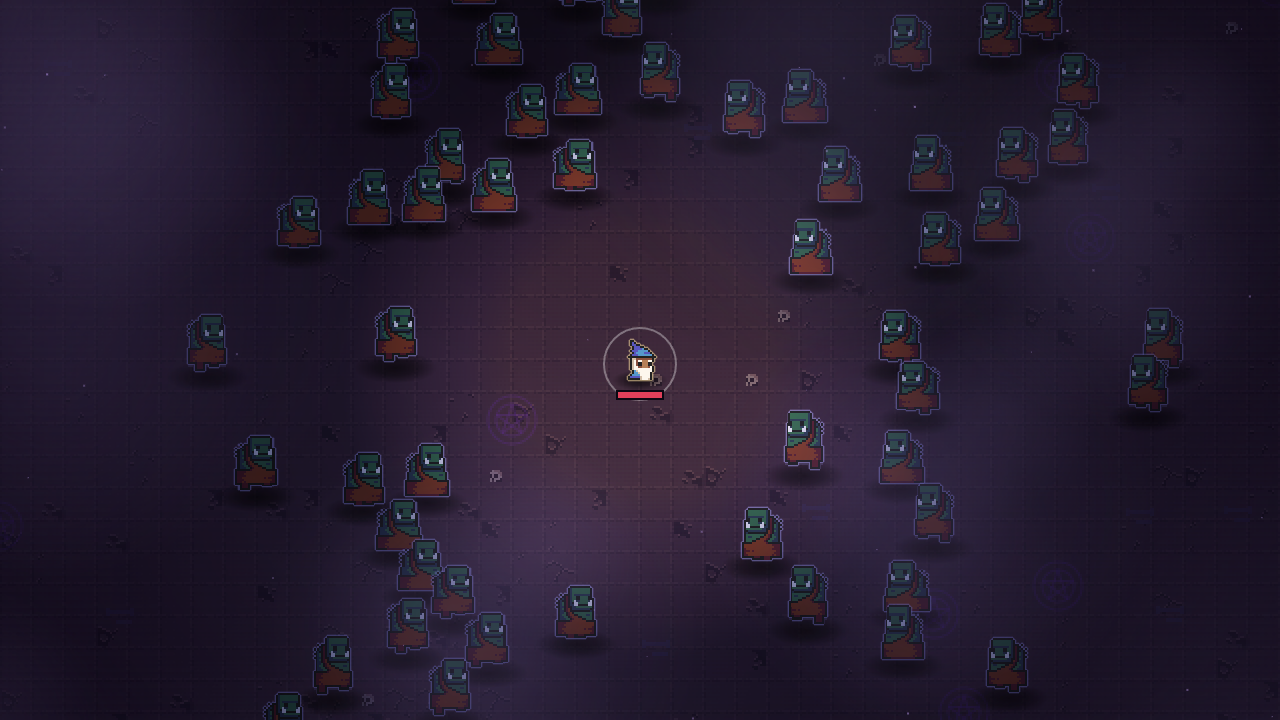
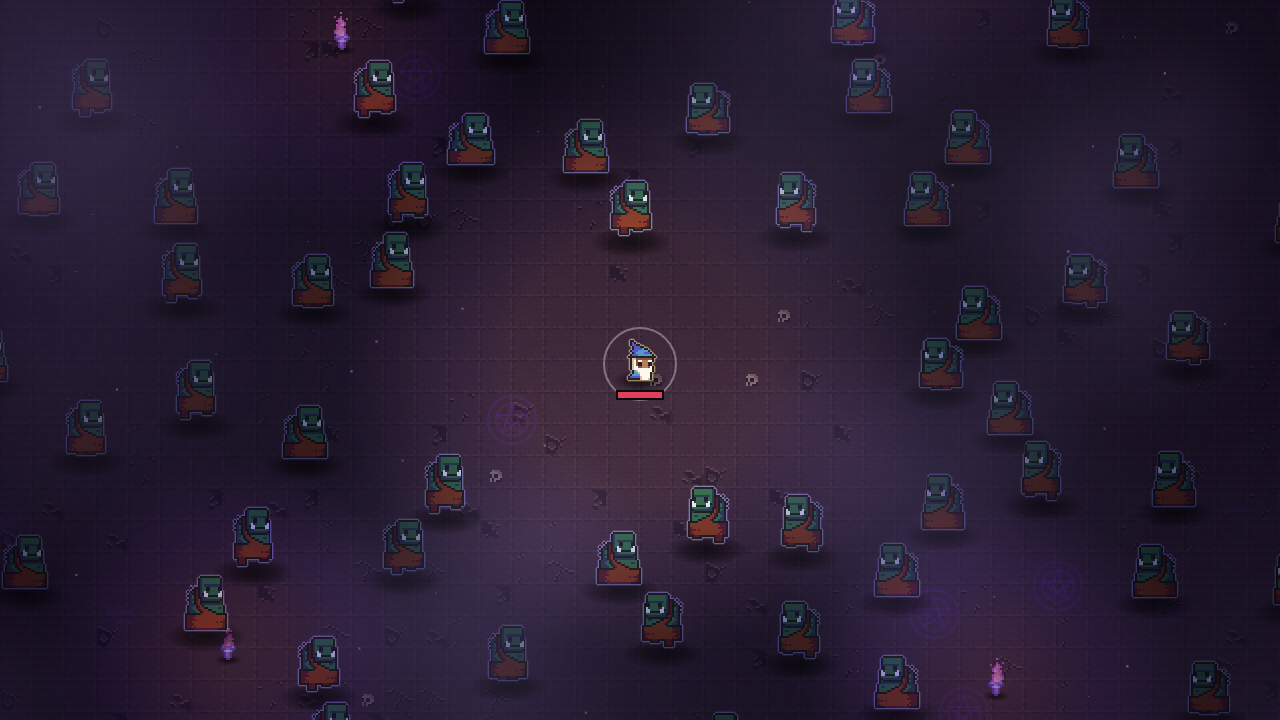
V8 G3: fixed per-wave world light sources (0x72 + Niji CC0 assets)

diff --git a/js/atlas.js b/js/atlas.js
@@ -1,4 +1,5 @@
 'use strict';
 // TỰ SINH bởi tools/build_atlas.py — không sửa tay.
 // Nguồn: 0x72 DungeonTileset II v1.7 (CC0), https://0x72.itch.io/dungeontileset-ii
-const ATLAS = {"src":"assets/atlas.png","size":[256,512],"frames":{"wizzard_m_idle_anim_f0":[1,1,18,30],"wizzard_m_idle_anim_f1":[21,1,18,30],"wizzard_m_idle_anim_f2":[41,1,18,30],"wizzard_m_idle_anim_f3":[61,1,18,30],"wizzard_m_run_anim_f0":[81,1,18,30],"wizzard_m_run_anim_f1":[101,1,18,30],"wizzard_m_run_anim_f2":[121,1,18,30],"wizzard_m_run_anim_f3":[141,1,18,30],"wizzard_m_hit_anim_f0":[161,1,18,30],"imp_idle_anim_f0":[181,1,18,18],"imp_idle_anim_f1":[201,1,18,18],"imp_idle_anim_f2":[221,1,18,18],"imp_idle_anim_f3":[1,33,18,18],"imp_run_anim_f0":[21,33,18,18],"imp_run_anim_f1":[41,33,18,18],"imp_run_anim_f2":[61,33,18,18],"imp_run_anim_f3":[81,33,18,18],"swampy_anim_f0":[101,33,18,18],"swampy_anim_f1":[121,33,18,18],"swampy_anim_f2":[141,33,18,18],"swampy_anim_f3":[161,33,18,18],"skelet_idle_anim_f0":[181,33,18,18],"skelet_idle_anim_f1":[201,33,18,18],"skelet_idle_anim_f2":[221,33,18,18],"skelet_idle_anim_f3":[1,53,18,18],"skelet_run_anim_f0":[21,53,18,18],"skelet_run_anim_f1":[41,53,18,18],"skelet_run_anim_f2":[61,53,18,18],"skelet_run_anim_f3":[81,53,18,18],"necromancer_anim_f0":[101,53,18,25],"necromancer_anim_f1":[121,53,18,25],"necromancer_anim_f2":[141,53,18,25],"necromancer_anim_f3":[161,53,18,25],"ogre_idle_anim_f0":[181,53,34,38],"ogre_idle_anim_f1":[217,53,34,38],"ogre_idle_anim_f2":[1,93,34,38],"ogre_idle_anim_f3":[37,93,34,38],"ogre_run_anim_f0":[73,93,34,38],"ogre_run_anim_f1":[109,93,34,38],"ogre_run_anim_f2":[145,93,34,38],"ogre_run_anim_f3":[181,93,34,38],"big_demon_idle_anim_f0":[217,93,34,38],"big_demon_idle_anim_f1":[1,133,34,38],"big_demon_idle_anim_f2":[37,133,34,38],"big_demon_idle_anim_f3":[73,133,34,38],"big_demon_run_anim_f0":[109,133,34,38],"big_demon_run_anim_f1":[145,133,34,38],"big_demon_run_anim_f2":[181,133,34,38],"big_demon_run_anim_f3":[217,133,34,38],"weapon_knife":[1,173,8,15],"weapon_red_gem_sword":[11,173,12,23],"chest_full_open_anim_f0":[25,173,18,18],"chest_full_open_anim_f1":[45,173,18,18],"chest_full_open_anim_f2":[65,173,18,18],"ui_heart_full":[85,173,15,14],"floor_1":[103,174,16,16],"floor_2":[123,174,16,16],"floor_3":[143,174,16,16],"floor_4":[163,174,16,16],"floor_5":[183,174,16,16],"floor_6":[203,174,16,16],"floor_7":[223,174,16,16],"floor_8":[2,199,16,16],"skull":[22,199,16,16],"big_zombie_idle_anim_f0":[41,198,34,38],"big_zombie_idle_anim_f1":[77,198,34,38],"big_zombie_idle_anim_f2":[113,198,34,38],"big_zombie_idle_anim_f3":[149,198,34,38],"big_zombie_run_anim_f0":[185,198,34,38],"big_zombie_run_anim_f1":[221,198,34,38],"big_zombie_run_anim_f2":[1,238,34,38],"big_zombie_run_anim_f3":[37,238,34,38],"crate":[73,238,18,26],"bomb_f0":[93,238,18,18],"bomb_f1":[113,238,18,18],"bomb_f2":[133,238,18,18],"flask_big_red":[153,238,18,18],"flask_big_blue":[173,238,18,18],"flask_big_green":[193,238,18,18],"flask_big_yellow":[213,238,18,18],"weapon_arrow":[234,239,7,21],"weapon_red_magic_staff":[245,239,8,30],"weapon_big_hammer":[2,279,10,37],"weapon_golden_sword":[16,279,10,22],"flask_green":[30,279,16,16],"flask_blue":[50,279,16,16],"flask_yellow":[70,279,16,16],"chort_idle_anim_f0":[89,278,18,25],"chort_idle_anim_f1":[109,278,18,25],"chort_idle_anim_f2":[129,278,18,25],"chort_idle_anim_f3":[149,278,18,25],"chort_run_anim_f0":[169,278,18,25],"chort_run_anim_f1":[189,278,18,25],"chort_run_anim_f2":[209,278,18,25],"chort_run_anim_f3":[229,278,18,25],"muddy_anim_f0":[1,319,18,18],"muddy_anim_f1":[21,319,18,18],"muddy_anim_f2":[41,319,18,18],"muddy_anim_f3":[61,319,18,18],"masked_orc_idle_anim_f0":[81,319,18,25],"masked_orc_idle_anim_f1":[101,319,18,25],"masked_orc_idle_anim_f2":[121,319,18,25],"masked_orc_idle_anim_f3":[141,319,18,25],"masked_orc_run_anim_f0":[161,319,18,25],"masked_orc_run_anim_f1":[181,319,18,25],"masked_orc_run_anim_f2":[201,319,18,25],"masked_orc_run_anim_f3":[221,319,18,25],"knight_m_idle_anim_f0":[1,346,18,30],"knight_m_idle_anim_f1":[21,346,18,30],"knight_m_idle_anim_f2":[41,346,18,30],"knight_m_idle_anim_f3":[61,346,18,30],"knight_m_run_anim_f0":[81,346,18,30],"knight_m_run_anim_f1":[101,346,18,30],"knight_m_run_anim_f2":[121,346,18,30],"knight_m_run_anim_f3":[141,346,18,30],"knight_m_hit_anim_f0":[161,346,18,30],"elf_f_idle_anim_f0":[181,346,18,30],"elf_f_idle_anim_f1":[201,346,18,30],"elf_f_idle_anim_f2":[221,346,18,30],"elf_f_idle_anim_f3":[1,378,18,30],"elf_f_run_anim_f0":[21,378,18,30],"elf_f_run_anim_f1":[41,378,18,30],"elf_f_run_anim_f2":[61,378,18,30],"elf_f_run_anim_f3":[81,378,18,30],"elf_f_hit_anim_f0":[101,378,18,30],"lizard_m_idle_anim_f0":[121,378,18,30],"lizard_m_idle_anim_f1":[141,378,18,30],"lizard_m_idle_anim_f2":[161,378,18,30],"lizard_m_idle_anim_f3":[181,378,18,30],"lizard_m_run_anim_f0":[201,378,18,30],"lizard_m_run_anim_f1":[221,378,18,30],"lizard_m_run_anim_f2":[1,410,18,30],"lizard_m_run_anim_f3":[21,410,18,30],"lizard_m_hit_anim_f0":[41,410,18,30]}};
+// + Niji DungeonTileset II Extended v1.1 (CC0), https://nijikokun.itch.io/dungeontileset-ii-extended
+const ATLAS = {"src":"assets/atlas.png","size":[256,512],"frames":{"wizzard_m_idle_anim_f0":[1,1,18,30],"wizzard_m_idle_anim_f1":[21,1,18,30],"wizzard_m_idle_anim_f2":[41,1,18,30],"wizzard_m_idle_anim_f3":[61,1,18,30],"wizzard_m_run_anim_f0":[81,1,18,30],"wizzard_m_run_anim_f1":[101,1,18,30],"wizzard_m_run_anim_f2":[121,1,18,30],"wizzard_m_run_anim_f3":[141,1,18,30],"wizzard_m_hit_anim_f0":[161,1,18,30],"imp_idle_anim_f0":[181,1,18,18],"imp_idle_anim_f1":[201,1,18,18],"imp_idle_anim_f2":[221,1,18,18],"imp_idle_anim_f3":[1,33,18,18],"imp_run_anim_f0":[21,33,18,18],"imp_run_anim_f1":[41,33,18,18],"imp_run_anim_f2":[61,33,18,18],"imp_run_anim_f3":[81,33,18,18],"swampy_anim_f0":[101,33,18,18],"swampy_anim_f1":[121,33,18,18],"swampy_anim_f2":[141,33,18,18],"swampy_anim_f3":[161,33,18,18],"skelet_idle_anim_f0":[181,33,18,18],"skelet_idle_anim_f1":[201,33,18,18],"skelet_idle_anim_f2":[221,33,18,18],"skelet_idle_anim_f3":[1,53,18,18],"skelet_run_anim_f0":[21,53,18,18],"skelet_run_anim_f1":[41,53,18,18],"skelet_run_anim_f2":[61,53,18,18],"skelet_run_anim_f3":[81,53,18,18],"necromancer_anim_f0":[101,53,18,25],"necromancer_anim_f1":[121,53,18,25],"necromancer_anim_f2":[141,53,18,25],"necromancer_anim_f3":[161,53,18,25],"ogre_idle_anim_f0":[181,53,34,38],"ogre_idle_anim_f1":[217,53,34,38],"ogre_idle_anim_f2":[1,93,34,38],"ogre_idle_anim_f3":[37,93,34,38],"ogre_run_anim_f0":[73,93,34,38],"ogre_run_anim_f1":[109,93,34,38],"ogre_run_anim_f2":[145,93,34,38],"ogre_run_anim_f3":[181,93,34,38],"big_demon_idle_anim_f0":[217,93,34,38],"big_demon_idle_anim_f1":[1,133,34,38],"big_demon_idle_anim_f2":[37,133,34,38],"big_demon_idle_anim_f3":[73,133,34,38],"big_demon_run_anim_f0":[109,133,34,38],"big_demon_run_anim_f1":[145,133,34,38],"big_demon_run_anim_f2":[181,133,34,38],"big_demon_run_anim_f3":[217,133,34,38],"weapon_knife":[1,173,8,15],"weapon_red_gem_sword":[11,173,12,23],"chest_full_open_anim_f0":[25,173,18,18],"chest_full_open_anim_f1":[45,173,18,18],"chest_full_open_anim_f2":[65,173,18,18],"ui_heart_full":[85,173,15,14],"floor_1":[103,174,16,16],"floor_2":[123,174,16,16],"floor_3":[143,174,16,16],"floor_4":[163,174,16,16],"floor_5":[183,174,16,16],"floor_6":[203,174,16,16],"floor_7":[223,174,16,16],"floor_8":[2,199,16,16],"skull":[22,199,16,16],"big_zombie_idle_anim_f0":[41,198,34,38],"big_zombie_idle_anim_f1":[77,198,34,38],"big_zombie_idle_anim_f2":[113,198,34,38],"big_zombie_idle_anim_f3":[149,198,34,38],"big_zombie_run_anim_f0":[185,198,34,38],"big_zombie_run_anim_f1":[221,198,34,38],"big_zombie_run_anim_f2":[1,238,34,38],"big_zombie_run_anim_f3":[37,238,34,38],"crate":[73,238,18,26],"bomb_f0":[93,238,18,18],"bomb_f1":[113,238,18,18],"bomb_f2":[133,238,18,18],"flask_big_red":[153,238,18,18],"flask_big_blue":[173,238,18,18],"flask_big_green":[193,238,18,18],"flask_big_yellow":[213,238,18,18],"weapon_arrow":[234,239,7,21],"weapon_red_magic_staff":[245,239,8,30],"weapon_big_hammer":[2,279,10,37],"weapon_golden_sword":[16,279,10,22],"flask_green":[30,279,16,16],"flask_blue":[50,279,16,16],"flask_yellow":[70,279,16,16],"chort_idle_anim_f0":[89,278,18,25],"chort_idle_anim_f1":[109,278,18,25],"chort_idle_anim_f2":[129,278,18,25],"chort_idle_anim_f3":[149,278,18,25],"chort_run_anim_f0":[169,278,18,25],"chort_run_anim_f1":[189,278,18,25],"chort_run_anim_f2":[209,278,18,25],"chort_run_anim_f3":[229,278,18,25],"muddy_anim_f0":[1,319,18,18],"muddy_anim_f1":[21,319,18,18],"muddy_anim_f2":[41,319,18,18],"muddy_anim_f3":[61,319,18,18],"masked_orc_idle_anim_f0":[81,319,18,25],"masked_orc_idle_anim_f1":[101,319,18,25],"masked_orc_idle_anim_f2":[121,319,18,25],"masked_orc_idle_anim_f3":[141,319,18,25],"masked_orc_run_anim_f0":[161,319,18,25],"masked_orc_run_anim_f1":[181,319,18,25],"masked_orc_run_anim_f2":[201,319,18,25],"masked_orc_run_anim_f3":[221,319,18,25],"knight_m_idle_anim_f0":[1,346,18,30],"knight_m_idle_anim_f1":[21,346,18,30],"knight_m_idle_anim_f2":[41,346,18,30],"knight_m_idle_anim_f3":[61,346,18,30],"knight_m_run_anim_f0":[81,346,18,30],"knight_m_run_anim_f1":[101,346,18,30],"knight_m_run_anim_f2":[121,346,18,30],"knight_m_run_anim_f3":[141,346,18,30],"knight_m_hit_anim_f0":[161,346,18,30],"elf_f_idle_anim_f0":[181,346,18,30],"elf_f_idle_anim_f1":[201,346,18,30],"elf_f_idle_anim_f2":[221,346,18,30],"elf_f_idle_anim_f3":[1,378,18,30],"elf_f_run_anim_f0":[21,378,18,30],"elf_f_run_anim_f1":[41,378,18,30],"elf_f_run_anim_f2":[61,378,18,30],"elf_f_run_anim_f3":[81,378,18,30],"elf_f_hit_anim_f0":[101,378,18,30],"lizard_m_idle_anim_f0":[121,378,18,30],"lizard_m_idle_anim_f1":[141,378,18,30],"lizard_m_idle_anim_f2":[161,378,18,30],"lizard_m_idle_anim_f3":[181,378,18,30],"lizard_m_run_anim_f0":[201,378,18,30],"lizard_m_run_anim_f1":[221,378,18,30],"lizard_m_run_anim_f2":[1,410,18,30],"lizard_m_run_anim_f3":[21,410,18,30],"lizard_m_hit_anim_f0":[41,410,18,30],"niji_flame_f0":[62,411,16,13],"niji_flame_f1":[82,411,16,13],"niji_flame_f2":[102,411,16,13],"niji_flame_f3":[122,411,16,13],"niji_flame_f4":[142,411,16,13],"niji_flame_f5":[162,411,16,13],"niji_flame_f6":[182,411,16,13],"niji_flame_f7":[202,411,16,13],"niji_torch_f0":[222,411,16,19],"niji_torch_f1":[2,443,16,19],"niji_torch_f2":[22,443,16,19],"niji_torch_f3":[42,443,16,19],"niji_torch_f4":[62,443,16,19],"niji_torch_f5":[82,443,16,19],"niji_torch_f6":[102,443,16,19],"niji_torch_f7":[122,443,16,19],"niji_candle_f0":[142,443,16,21],"niji_candle_f1":[162,443,16,21],"niji_candle_f2":[182,443,16,21],"niji_candle_f3":[202,443,16,21],"niji_candle_f4":[222,443,16,21],"niji_candle_f5":[2,468,16,21],"niji_candle_f6":[22,468,16,21],"niji_candle_f7":[42,468,16,21]}};

diff --git a/js/render.js b/js/render.js
@@ -337,7 +337,16 @@ const SHAPES = {
   bomber:     scaledShape('bat', 1.3),
   splitter:   scaledShape('slime', 1.6),
   charger:    scaledShape('skeleton', 1.4),
+  // đèn thế giới (V8 G3) khi thiếu ảnh: (x, y) là chân, ngọn lửa đổi khung theo e.anim
+  propCandle(c, e) { c.fillStyle = '#3b3648'; c.fillRect(e.x - 5, e.y - 12, 10, 12); c.fillStyle = '#e8dcc0'; c.fillRect(e.x - 2, e.y - 16, 4, 4); propFire(c, e.x, e.y - 16, e.anim); },
+  propTorch(c, e) { c.fillStyle = '#4a4458'; c.fillRect(e.x - 1, e.y - 12, 2, 12); c.fillRect(e.x - 4, e.y - 14, 8, 3); propFire(c, e.x, e.y - 14, e.anim, '#b583ff', '#ecdcff'); },
+  propFlame(c, e) { propFire(c, e.x, e.y, e.anim); },
 };
+function propFire(c, x, y, t, out = '#ffa040', core = '#fff0a0') {
+  const f = Math.floor(t * 10) % 3;
+  c.fillStyle = out; c.fillRect(x - 2, y - 5 - f, 4, 5 + f);
+  c.fillStyle = core; c.fillRect(x - 1, y - 3, 2, 3);
+}
 function flaskShape(c, g, color) {
   const y = g.y + Math.sin(g.anim * 4) * 1.5;
   c.fillStyle = '#d8d8e8'; c.fillRect(g.x - 2, y - 8, 4, 4);
@@ -624,6 +633,44 @@ function drawWeather(camX, camY, t, wi) {
   ctx.globalAlpha = 1;
 }
 
+/* Đèn thế giới (V8 G3): mỗi ô lưới CFG.props.cell có 1 nguồn sáng ở giữa ô ± jit, vị trí theo hash(ô) — cố định, không Math.random.
+   Hình: sprite WAVE_DEFS[i].props.kind (thiếu ảnh → SHAPES) trên đế vẽ code PROP_BASE; đèn thêm trong drawLights. */
+const PROP_BASE = {
+  vent(c, x, y) { c.fillStyle = '#0a0604'; ellipse(c, x, y, 9, 3.5); c.fillStyle = 'rgba(255,170,60,0.45)'; ellipse(c, x, y - 0.5, 6, 2); },   // khe đất
+  pyre(c, x, y) {   // đống than: 2 khúc củi + than hồng
+    c.fillStyle = '#2a1a12'; c.fillRect(x - 10, y - 3, 20, 3); c.fillRect(x - 7, y - 5, 14, 2);
+    c.fillStyle = '#ff9a3a'; c.fillRect(x - 6, y - 2, 2, 1); c.fillRect(x + 3, y - 3, 2, 1); c.fillRect(x - 1, y - 1, 2, 1);
+  },
+};
+const propList = [], propTmp = { x: 0, y: 0, r: 6, anim: 0, face: 1, sc: 1 };
+// Các nguồn sáng có chân trong vùng nhìn + lề m: mảng {x, y, h} (h = hash của ô, dùng cho pha lập loè/hoạt ảnh)
+function propsOnCam(camX, camY, out, m) {
+  const C = CFG.props, S = C.cell, J = 2 * C.jit + 1; out.length = 0;
+  for (let cx = Math.floor((camX - m) / S), cx1 = Math.floor((camX + VW + m) / S); cx <= cx1; cx++)
+    for (let cy = Math.floor((camY - m) / S), cy1 = Math.floor((camY + VH + m) / S); cy <= cy1; cy++) {
+      const h = hash(cx + 7919, cy + 104729), x = cx * S + S / 2 + h % J - C.jit, y = cy * S + S / 2 + (h >>> 12) % J - C.jit;
+      if (x > camX - m && x < camX + VW + m && y > camY - m && y < camY + VH + m) out.push({ x, y, h });
+    }
+  return out;
+}
+// Độ sáng một đèn: 1 − flick·(1 − trung bình 2 sóng sin lệch pha theo h); giảm loé → đứng yên ở 1 − flick
+function propA(h, t) {
+  const C = CFG.props; if (calm()) return 1 - C.flick;
+  const w = t * C.flickHz, ph = h % 628 / 100;
+  return 1 - C.flick * (1 - (Math.sin(w + ph) + Math.sin(w * 1.7 + ph * 3)) / 2);
+}
+function drawProps(camX, camY, wi, t) {
+  const pd = WAVE_DEFS[wi].props; if (!pd) return;
+  const o = propTmp, spr = Assets.get(pd.kind);
+  o.sc = pd.sc || 1;
+  for (const q of propsOnCam(camX, camY, propList, 32)) {   // lề 32: sprite cao tới ~30 đơn vị phía trên chân
+    o.x = q.x; o.y = q.y - o.r * 0.85;   // drawShadow đặt bóng ở y + r·0.85 = chân
+    if (pd.base) PROP_BASE[pd.base](ctx, q.x, q.y); else if (spr) drawShadow(o);
+    o.y = q.y; o.anim = t + (q.h >>> 8) % 97 / 31; o.face = q.h & 1 ? 1 : -1;
+    draw(ctx, o, pd.kind);
+  }
+}
+
 /* Lớp phát sáng: quầng sáng vẽ sẵn (64×64), cộng sáng một lượt dưới mọi vật. Có giới hạn số quầng mỗi khung. */
 const GLOW_COLORS = { pink: '255,77,196', purple: '200,107,255', cyan: '127,212,255', gold: '255,209,102', green: '92,255,157', red: '255,59,92' };
 const GLOWS = {};
@@ -674,7 +721,7 @@ function drawLights(camX, camY) {
   }
   lightList.length = 0; eliteTmp.length = 0;
   const onCam = (x, y, r) => x + r > camX && x - r < camX + VW && y + r > camY && y - r < camY + VH;
-  // Gom đèn theo thứ tự ưu tiên (người chơi → boss → vùng nổ → tinh anh → đạn; bỏ đèn ngọc để giữ ngân sách khung hình)
+  // Gom đèn theo thứ tự ưu tiên (người chơi → boss → vùng nổ → đèn thế giới → tinh anh → đạn; bỏ đèn ngọc để giữ ngân sách khung hình)
   if (p) addLight(p.x, p.y, L.player, L.playerCol);
   for (let i = 0, it = G.enemies.items; i < it.length; i++) {
     const e = it[i]; if (e.dead) continue;
@@ -687,6 +734,8 @@ function drawLights(camX, camY) {
     const z = G.zones[i], zr = z.r * L.zone;
     if (onCam(z.x, z.y, zr)) addLight(z.x, z.y, zr, L.zoneCol, clamp(0.5 + 0.5 * (1 - z.t / (z.max || 1)), 0, 1));
   }
+  const pd = WAVE_DEFS[waveIdx()].props;   // đèn thế giới (V8 G3): sau vùng nổ, trước tinh anh
+  if (pd) { const r = CFG.props.r * pd.k; for (const q of propsOnCam(camX, camY, propList, r)) addLight(q.x, q.y - 6, r, pd.col, propA(q.h, G.t)); }
   for (let i = 0; i < eliteTmp.length; i++) {
     const e = eliteTmp[i];
     if (onCam(e.x, e.y, L.elite)) addLight(e.x, e.y, L.elite, L.eliteCol);
@@ -1238,6 +1287,13 @@ function renderAttract(dt) {
   const camX = snapPx(cx - VW / 2), camY = snapPx(cy - VH / 2);
   ctx.setTransform(ZOOM, 0, 0, ZOOM, -camX * ZOOM, -camY * ZOOM);
   tileGround(groundFor(0), camX, camY);
+  const pd = WAVE_DEFS[0].props, PC = CFG.props;
+  if (pd && lightOn()) {   // menu không có lightmap: đèn thế giới là quầng cộng sáng nhẹ
+    const r = PC.r * pd.k; ctx.globalCompositeOperation = 'lighter';
+    for (const q of propsOnCam(camX, camY, propList, r)) { ctx.globalAlpha = PC.menuA * propA(q.h, t); ctx.drawImage(lightImg(pd.col), q.x - r, q.y - 6 - r, r * 2, r * 2); }
+    ctx.globalCompositeOperation = 'source-over'; ctx.globalAlpha = 1;
+  }
+  drawProps(camX, camY, 0, t);
   const L = attract.list; L.length = 0; for (const m of attract.mobs) L.push(m); L.sort(byY);
   for (const m of L) { if (Assets.get(m.type)) drawShadow(m); draw(ctx, m, m.type); }
   ctx.setTransform(SCREEN, 0, 0, SCREEN, 0, 0);
@@ -1256,6 +1312,7 @@ function renderScene() {
   ctx.setTransform(ZOOM, 0, 0, ZOOM, -camX * ZOOM, -camY * ZOOM);
   drawGround(camX, camY);
   if (G.decals.length) drawDecals();
+  drawProps(camX, camY, waveIdx(), G.t);   // đồ trang trí: vẽ cả khi tắt ánh sáng đêm, chỉ đèn của nó tắt
   const x0 = camX - 60, x1 = camX + VW + 60, y0 = camY - 60, y1 = camY + VH + 60;
   const vis = o => o.x > x0 && o.x < x1 && o.y > y0 && o.y < y1;
   drawAura(p);

diff --git a/js/data.js b/js/data.js
@@ -50,6 +50,10 @@ const CFG = {
   dmgNum: { busy: 40, max: 60, keep: 0.6, ema: 0.05, // bớt số sát thương khi đông: từ busy số trở lên bỏ đòn < keep × trung bình trượt (ema), tối đa max số cùng lúc
     merge: { r: 28, busy: 12 } }, // từ busy số trở lên: số mới bằng một số còn sống trong bán kính r thì cộng vào số đó (hiện "33×3")
   die: { flashMax: 10, dark: 0.55 }, // hạ hàng loạt: mỗi khung tối đa flashMax xác nháy trắng (mới nhất trước, boss luôn nháy), xác còn lại mờ đi dark
+  // Đèn thế giới (V8 G3): mỗi ô lưới cell×cell đơn vị có đúng 1 nguồn sáng ở giữa ô ± jit (theo hash, cố định) → khung 640×360 luôn thấy 1–6 đèn;
+  // bán kính đèn r × WAVE_DEFS[i].props.k; độ sáng 1 − flick·(1 − sóng), sóng = trung bình 2 sin lệch pha (flickHz), giảm loé thì đứng yên ở 1 − flick;
+  // menuA: ở menu không có lightmap, đèn là quầng cộng sáng nhẹ với độ đậm này
+  props: { cell: 400, jit: 60, flick: 0.12, flickHz: 7, r: 95, menuA: 0.3 },
 };
 
 // Cài đặt người chơi (lưu localStorage)
@@ -105,7 +109,7 @@ const ASSETS = {};
    golem → Quỷ khổng lồ (ogre), boss → Chúa Tể Bóng Đêm (big_demon). Mã nội bộ giữ nguyên.
    anims: tên: [tiền tố khung, số khung (0 = một khung không đánh số), fps]
    anchor tính theo px trong khung (đã gồm lề trong suốt 1px), đặt trùng tâm va chạm của vật. */
-const ATLAS_SRC = typeof ATLAS !== 'undefined' ? ATLAS.src + '?v=g7' : null;
+const ATLAS_SRC = typeof ATLAS !== 'undefined' ? ATLAS.src + '?v=g8' : null;
 const SPRITES = {
   player:   { anchor: [9, 19],    scale: 1,   anims: { idle: ['wizzard_m_idle_anim_f', 4, 6], run: ['wizzard_m_run_anim_f', 4, 10], hit: ['wizzard_m_hit_anim_f', 1, 1] } },
   bat:      { anchor: [9, 11],    scale: 1.2, anims: { idle: ['imp_idle_anim_f', 4, 8], run: ['imp_run_anim_f', 4, 12] } },
@@ -136,6 +140,10 @@ const SPRITES = {
   orb:      { anchor: [6, 11.5],  scale: 1,   rotate: Math.PI / 2, anims: { idle: ['weapon_red_gem_sword', 0, 1] } },
   chest:    { anchor: [9, 10],    scale: 1.3, anims: { idle: ['chest_full_open_anim_f', 1, 1] } },
   heart:    { anchor: [7.5, 7],   scale: 1.1, anims: { idle: ['ui_heart_full', 0, 1] } },
+  // đèn thế giới (V8 G3, gói Niji DungeonTileset II Extended CC0): neo ở chân; đuốc đợt 2 nhuộm tím (lửa tử linh)
+  propCandle: { anchor: [8, 21], scale: 1, anims: { idle: ['niji_candle_f', 8, 10] } },
+  propTorch:  { anchor: [8, 19], scale: 1, tint: ['#8a50ff', 0.55], anims: { idle: ['niji_torch_f', 8, 10] } },
+  propFlame:  { anchor: [8, 13], scale: 1, anims: { idle: ['niji_flame_f', 8, 10] } },
 };
 if (ATLAS_SRC) {
   for (const [kind, s] of Object.entries(SPRITES)) {
@@ -219,22 +227,28 @@ const ITEMS = {
 
 /* 4 đợt quái. Mỗi đợt: đánh `dur` giây (tốc độ sinh tăng dần rate[0] → rate[1]), rồi boss xuất hiện
    (quái thường vẫn ra nhưng thưa hơn). Hạ boss → nghỉ CFG.restTime giây → đợt sau. Hạ boss đợt cuối là thắng.
-   mix: thành phần quái theo giây trong đợt; events: sự kiện theo giây trong đợt. */
+   mix: thành phần quái theo giây trong đợt; events: sự kiện theo giây trong đợt.
+   props (V8 G3): đèn thế giới — kind: sprite trong SPRITES (thiếu ảnh thì hình code SHAPES[kind]), base: đế vẽ code PROP_BASE (render.js),
+   col: màu đèn (lệch ≥ 35° sắc độ so với CFG.light.zoneCol), k: hệ số bán kính đèn, sc: cỡ sprite. Đợt vô tận dùng của đợt 4. */
 const WAVE_DEFS = [
   { name: 'Nghĩa địa thức giấc', dur: 110, rate: [1.1, 3.0], boss: 'bossZombie', ambient: '#8088b8',
     ground: { tint: 'rgba(10,8,18,0.50)', decor: ['tomb', 'grass', 'grass'], light: '5,3,12', mote: '#bcd6ff' }, weather: { kind: 'fog', col: '#9fb0dc', a: 0.22 },
+    props: { kind: 'propCandle', col: '#ffd880', k: 0.8 },
     mix: [{ t: 0, mix: { bat: 1 } }, { t: 20, mix: { bat: 3, slime: 1 } }, { t: 55, mix: { bat: 2, slime: 2, splitter: 0.5 } }, { t: 85, mix: { bat: 2, slime: 2, skeleton: 1, splitter: 0.5 } }], elites: [75],
     events: [{ t: 30, kind: 'circle', type: 'bat', n: 26, msg: 'Bị bao vây!' }, { t: 65, kind: 'swarm', type: 'bat', n: 25, msg: 'Bầy tiểu quỷ kéo đến!' }] },
   { name: 'Tiếng gọi tử linh', dur: 140, rate: [2.0, 3.6], boss: 'bossNecro', ambient: '#6f78a8',
     ground: { tint: 'rgba(38,10,48,0.50)', decor: ['bones', 'rune', 'bones'], light: '12,3,22', mote: '#c9a6ff' }, weather: { kind: 'fog', col: '#a58ad8', a: 0.20 },
+    props: { kind: 'propTorch', col: '#b583ff', k: 1.0 },
     mix: [{ t: 0, mix: { bat: 3, slime: 2, skeleton: 1 } }, { t: 30, mix: { bat: 2, slime: 2, skeleton: 2, ghost: 1, bomber: 1 } }, { t: 110, mix: { bat: 2, slime: 2, skeleton: 2, ghost: 1, golem: 1, bomber: 1, charger: 1 } }], elites: [60, 110],
     events: [{ t: 50, kind: 'circle', type: 'slime', n: 36, msg: 'Bị bao vây!' }, { t: 110, kind: 'swarm', type: 'bat', n: 45, msg: 'Bầy tiểu quỷ kéo đến!' }] },
   { name: 'Đất rung chuyển', dur: 140, rate: [4.2, 7.0], boss: 'bossOgre', ambient: '#6a5f96',
     ground: { tint: 'rgba(48,26,8,0.50)', decor: ['crack', 'rock', 'crack'], light: '13,7,3', mote: '#b89a72' }, weather: { kind: 'dust', col: '#b4a888', a: 0.08 },
+    props: { kind: 'propFlame', base: 'vent', col: '#ffc850', k: 1.1 },
     mix: [{ t: 0, mix: { bat: 2, skeleton: 3, ghost: 2, golem: 1, bomber: 2, charger: 2, splitter: 1 } }, { t: 70, mix: { bat: 3, slime: 2, skeleton: 3, ghost: 2, golem: 1, bomber: 2, charger: 2, splitter: 1 } }], elites: [60, 110],
     events: [{ t: 45, kind: 'circle', type: 'skeleton', n: 40, msg: 'Bị bao vây!' }, { t: 100, kind: 'swarm', type: 'skeleton', n: 50, msg: 'Đội quân xương trỗi dậy!' }] },
   { name: 'Màn đêm cuối cùng', dur: 140, rate: [7.0, 11.5], boss: 'boss', ambient: '#7a5560',
     ground: { tint: 'rgba(60,6,14,0.55)', decor: ['blood', 'ember', 'ember'], light: '18,2,5', mote: '#ff9a4a' }, weather: { kind: 'ash', col: '#ffdc8c', a: 0.16 },
+    props: { kind: 'propFlame', base: 'pyre', col: '#ffd060', k: 1.2, sc: 1.4 },
     mix: [{ t: 0, mix: { bat: 3, skeleton: 4, ghost: 2, golem: 2, bomber: 2, charger: 3, splitter: 1 } }, { t: 70, mix: { bat: 4, skeleton: 4, ghost: 3, golem: 2, bomber: 2, charger: 3, splitter: 1 } }], elites: [60, 110],
     events: [{ t: 40, kind: 'circle', type: 'golem', n: 24, msg: 'Quỷ khổng lồ bao vây!' }, { t: 95, kind: 'swarm', type: 'bat', n: 80, msg: 'Màn đêm cuối cùng!' }] },
 ];

diff --git a/tools/backup/atlas.v8g.js b/tools/backup/atlas.v8g.js
@@ -1,0 +1,4 @@
+'use strict';
+// TỰ SINH bởi tools/build_atlas.py — không sửa tay.
+// Nguồn: 0x72 DungeonTileset II v1.7 (CC0), https://0x72.itch.io/dungeontileset-ii
+const ATLAS = {"src":"assets/atlas.png","size":[256,512],"frames":{"wizzard_m_idle_anim_f0":[1,1,18,30],"wizzard_m_idle_anim_f1":[21,1,18,30],"wizzard_m_idle_anim_f2":[41,1,18,30],"wizzard_m_idle_anim_f3":[61,1,18,30],"wizzard_m_run_anim_f0":[81,1,18,30],"wizzard_m_run_anim_f1":[101,1,18,30],"wizzard_m_run_anim_f2":[121,1,18,30],"wizzard_m_run_anim_f3":[141,1,18,30],"wizzard_m_hit_anim_f0":[161,1,18,30],"imp_idle_anim_f0":[181,1,18,18],"imp_idle_anim_f1":[201,1,18,18],"imp_idle_anim_f2":[221,1,18,18],"imp_idle_anim_f3":[1,33,18,18],"imp_run_anim_f0":[21,33,18,18],"imp_run_anim_f1":[41,33,18,18],"imp_run_anim_f2":[61,33,18,18],"imp_run_anim_f3":[81,33,18,18],"swampy_anim_f0":[101,33,18,18],"swampy_anim_f1":[121,33,18,18],"swampy_anim_f2":[141,33,18,18],"swampy_anim_f3":[161,33,18,18],"skelet_idle_anim_f0":[181,33,18,18],"skelet_idle_anim_f1":[201,33,18,18],"skelet_idle_anim_f2":[221,33,18,18],"skelet_idle_anim_f3":[1,53,18,18],"skelet_run_anim_f0":[21,53,18,18],"skelet_run_anim_f1":[41,53,18,18],"skelet_run_anim_f2":[61,53,18,18],"skelet_run_anim_f3":[81,53,18,18],"necromancer_anim_f0":[101,53,18,25],"necromancer_anim_f1":[121,53,18,25],"necromancer_anim_f2":[141,53,18,25],"necromancer_anim_f3":[161,53,18,25],"ogre_idle_anim_f0":[181,53,34,38],"ogre_idle_anim_f1":[217,53,34,38],"ogre_idle_anim_f2":[1,93,34,38],"ogre_idle_anim_f3":[37,93,34,38],"ogre_run_anim_f0":[73,93,34,38],"ogre_run_anim_f1":[109,93,34,38],"ogre_run_anim_f2":[145,93,34,38],"ogre_run_anim_f3":[181,93,34,38],"big_demon_idle_anim_f0":[217,93,34,38],"big_demon_idle_anim_f1":[1,133,34,38],"big_demon_idle_anim_f2":[37,133,34,38],"big_demon_idle_anim_f3":[73,133,34,38],"big_demon_run_anim_f0":[109,133,34,38],"big_demon_run_anim_f1":[145,133,34,38],"big_demon_run_anim_f2":[181,133,34,38],"big_demon_run_anim_f3":[217,133,34,38],"weapon_knife":[1,173,8,15],"weapon_red_gem_sword":[11,173,12,23],"chest_full_open_anim_f0":[25,173,18,18],"chest_full_open_anim_f1":[45,173,18,18],"chest_full_open_anim_f2":[65,173,18,18],"ui_heart_full":[85,173,15,14],"floor_1":[103,174,16,16],"floor_2":[123,174,16,16],"floor_3":[143,174,16,16],"floor_4":[163,174,16,16],"floor_5":[183,174,16,16],"floor_6":[203,174,16,16],"floor_7":[223,174,16,16],"floor_8":[2,199,16,16],"skull":[22,199,16,16],"big_zombie_idle_anim_f0":[41,198,34,38],"big_zombie_idle_anim_f1":[77,198,34,38],"big_zombie_idle_anim_f2":[113,198,34,38],"big_zombie_idle_anim_f3":[149,198,34,38],"big_zombie_run_anim_f0":[185,198,34,38],"big_zombie_run_anim_f1":[221,198,34,38],"big_zombie_run_anim_f2":[1,238,34,38],"big_zombie_run_anim_f3":[37,238,34,38],"crate":[73,238,18,26],"bomb_f0":[93,238,18,18],"bomb_f1":[113,238,18,18],"bomb_f2":[133,238,18,18],"flask_big_red":[153,238,18,18],"flask_big_blue":[173,238,18,18],"flask_big_green":[193,238,18,18],"flask_big_yellow":[213,238,18,18],"weapon_arrow":[234,239,7,21],"weapon_red_magic_staff":[245,239,8,30],"weapon_big_hammer":[2,279,10,37],"weapon_golden_sword":[16,279,10,22],"flask_green":[30,279,16,16],"flask_blue":[50,279,16,16],"flask_yellow":[70,279,16,16],"chort_idle_anim_f0":[89,278,18,25],"chort_idle_anim_f1":[109,278,18,25],"chort_idle_anim_f2":[129,278,18,25],"chort_idle_anim_f3":[149,278,18,25],"chort_run_anim_f0":[169,278,18,25],"chort_run_anim_f1":[189,278,18,25],"chort_run_anim_f2":[209,278,18,25],"chort_run_anim_f3":[229,278,18,25],"muddy_anim_f0":[1,319,18,18],"muddy_anim_f1":[21,319,18,18],"muddy_anim_f2":[41,319,18,18],"muddy_anim_f3":[61,319,18,18],"masked_orc_idle_anim_f0":[81,319,18,25],"masked_orc_idle_anim_f1":[101,319,18,25],"masked_orc_idle_anim_f2":[121,319,18,25],"masked_orc_idle_anim_f3":[141,319,18,25],"masked_orc_run_anim_f0":[161,319,18,25],"masked_orc_run_anim_f1":[181,319,18,25],"masked_orc_run_anim_f2":[201,319,18,25],"masked_orc_run_anim_f3":[221,319,18,25],"knight_m_idle_anim_f0":[1,346,18,30],"knight_m_idle_anim_f1":[21,346,18,30],"knight_m_idle_anim_f2":[41,346,18,30],"knight_m_idle_anim_f3":[61,346,18,30],"knight_m_run_anim_f0":[81,346,18,30],"knight_m_run_anim_f1":[101,346,18,30],"knight_m_run_anim_f2":[121,346,18,30],"knight_m_run_anim_f3":[141,346,18,30],"knight_m_hit_anim_f0":[161,346,18,30],"elf_f_idle_anim_f0":[181,346,18,30],"elf_f_idle_anim_f1":[201,346,18,30],"elf_f_idle_anim_f2":[221,346,18,30],"elf_f_idle_anim_f3":[1,378,18,30],"elf_f_run_anim_f0":[21,378,18,30],"elf_f_run_anim_f1":[41,378,18,30],"elf_f_run_anim_f2":[61,378,18,30],"elf_f_run_anim_f3":[81,378,18,30],"elf_f_hit_anim_f0":[101,378,18,30],"lizard_m_idle_anim_f0":[121,378,18,30],"lizard_m_idle_anim_f1":[141,378,18,30],"lizard_m_idle_anim_f2":[161,378,18,30],"lizard_m_idle_anim_f3":[181,378,18,30],"lizard_m_run_anim_f0":[201,378,18,30],"lizard_m_run_anim_f1":[221,378,18,30],"lizard_m_run_anim_f2":[1,410,18,30],"lizard_m_run_anim_f3":[21,410,18,30],"lizard_m_hit_anim_f0":[41,410,18,30]}};

diff --git a/tools/checks.js b/tools/checks.js
@@ -740,6 +740,39 @@ window.runChecks = async function () {
     ok('V8-2', '2.1 Hạ 60 quái cùng lúc: điểm ảnh trắng ≤ 4% màn; 60 đòn 33 sát nhau thành ≤ 15 số',
       ws <= 0.04 && nums <= 15, `trắng ${(ws * 100).toFixed(1)}%, số ${nums}`);
   }
+  { // ---- V8-3 (G3): nguồn sáng cố định theo đợt ----
+    const hue = h => { const [r, g, b] = [1, 3, 5].map(i => parseInt(h.slice(i, i + 2), 16) / 255), M = Math.max(r, g, b), m = Math.min(r, g, b), d = M - m;
+      if (!d) return 0; const x = M === r ? ((g - b) / d) % 6 : M === g ? (b - r) / d + 2 : (r - g) / d + 4; return (x * 60 + 360) % 360; };
+    const hdist = (a, b) => { const d = Math.abs(hue(a) - hue(b)); return Math.min(d, 360 - d); };
+    const has = typeof propsOnCam === 'function', lightWas = SETTINGS.light, nfWas = SETTINGS.noFlash;
+    const clean = () => { G.enemies.clear(); G.gems.clear(); G.bullets.clear(); G.fx.clear(); G.zones.length = 0; G.shake = 0; };
+    let seen = [], same = false, nMax = 0, hueMin = 0, flick = -1, still = -1, endless = 'không có propsOnCam';
+    if (has) {
+      SETTINGS.light = true; light.failed = false; SETTINGS.noFlash = false;
+      // (a) đi 2000 đơn vị theo trục x ở mỗi đợt: số đèn thế giới trong khung (trừ đèn người chơi) luôn 1..6; (d) tổng đèn ≤ CFG.light.max
+      for (let i = 0; i < 4; i++) { fresh(); v.skipTo(i); clean(); for (let d = 0; d <= 2000; d += 100) { P().x = d; P().y = 50; render(1); seen.push(light.n - 1); nMax = Math.max(nMax, light.n); } }
+      // (b) cố định theo toạ độ
+      const a1 = JSON.stringify(propsOnCam(123, 456, [], 100)), a2 = JSON.stringify(propsOnCam(123, 456, [], 100));
+      same = a1 === a2 && a1 !== '[]';
+      // (c) luật màu V7
+      hueMin = Math.min(...WAVE_DEFS.map(w => w.props ? hdist(w.props.col, CFG.light.zoneCol) : 0));
+      // (e) lập loè: điểm ảnh lightmap cạnh một đèn ở 150 đơn vị bên phải người chơi (ngoài đèn nhân vật), 2 thời điểm; giảm loé thì bằng nhau
+      fresh(); clean();
+      const f = propsOnCam(-500, -500, [], 0)[0];
+      if (f) {
+        P().x = f.x - 150; P().y = f.y;
+        const camX = snapPx(P().x - VW / 2), camY = snapPx(P().y - VH / 2), off = CFG.props.r * WAVE_DEFS[0].props.k * 0.6;   // lệch khỏi tâm đèn để không bão hoà 255
+        const at = t => { G.t = t; render(1); const d = light.cv.getContext('2d').getImageData(Math.round(f.x + off - camX), Math.round(f.y - camY), 1, 1).data; return d[0] + d[1] + d[2]; };
+        flick = Math.abs(at(0.3) - at(1.1));
+        SETTINGS.noFlash = true; still = Math.abs(at(0.3) - at(1.1));
+      }
+      fresh(); v.skipTo(6); clean(); try { render(1); endless = light.n > 1 ? 'ok' : 'không có đèn'; } catch (e) { endless = e.message; }
+    }
+    SETTINGS.light = lightWas; SETTINGS.noFlash = nfWas;
+    ok('V8-3', '3.1 Đèn thế giới: đi 2000 đơn vị ở mỗi đợt luôn thấy 1–6 đèn; cố định theo toạ độ; màu lệch ≥ 35° so với đỏ nguy hiểm; không vượt CFG.light.max; lập loè, giảm loé thì đứng yên; vô tận có đèn',
+      has && Math.min(...seen) >= 1 && Math.max(...seen) <= 6 && same && hueMin >= 35 && nMax <= CFG.light.max && flick > 0 && still === 0 && endless === 'ok',
+      `đèn ${has ? Math.min(...seen) + '–' + Math.max(...seen) : '-'}, cố định ${same}, sắc độ ≥ ${hueMin.toFixed(1)}°, tổng ≤ ${nMax}/${CFG.light.max}, lập loè ${flick}, giảm loé ${still}, vô tận ${endless}`);
+  }
   { // ---- V8-4 (G4): vết loang khi quái chết — giới hạn riêng, tự tan ----
     const R = CFG.remains || {}, chanceWas = R.chance, stains = () => G.decals.filter(d => d.kind === 'stain').length;
     fresh(); v.skipTo(2); G.enemies.clear(); G.decals.length = 0; R.chance = 1;   // chắc chắn có vết để phép thử không đạt nhờ may

diff --git a/index.html b/index.html
@@ -10,7 +10,7 @@
 <link rel="apple-touch-icon" href="assets/icon-192.png">
 <script>
   // PHIÊN BẢN: đổi MỘT chỗ này sau mỗi lần sửa JS/CSS (thêm ?v=… vào mọi file để trình duyệt không dùng bản cũ)
-  window.VER = 'v8g';
+  window.VER = 'v8h';
   document.write('<link rel="stylesheet" href="css/game.css?v=' + VER + '">');
 </script>
 </head>

diff --git a/tools/build_atlas.py b/tools/build_atlas.py
@@ -1,6 +1,9 @@
 """Ghép atlas cho game từ gói 0x72 DungeonTileset II (CC0).
 
-Chạy:  python -I tools/build_atlas.py vendor/0x72/x/0x72_DungeonTilesetII_v1.7/0x72_DungeonTilesetII_v1.7.png vendor/0x72/x/0x72_DungeonTilesetII_v1.7/tile_list_v1.7
+Chạy:  python -I tools/build_atlas.py vendor/0x72/x/0x72_DungeonTilesetII_v1.7/0x72_DungeonTilesetII_v1.7.png vendor/0x72/x/0x72_DungeonTilesetII_v1.7/tile_list_v1.7 "vendor/niji/dungeontiles-extended v1.1/dungeontileset-extended.png" tools/niji_tiles.txt
+
+- Hai tham số cuối (tuỳ chọn, V8 G3): ảnh + danh sách khung của gói thứ hai (Niji "DungeonTileset II Extended", CC0);
+  mọi khung trong danh sách đó được thêm SAU các khung 0x72 (không lề) nên toạ độ khung cũ không đổi.
 
 - Chỉ lấy các khung game dùng (danh sách NEEDED bên dưới).
 - Mỗi khung đặt trong ô có 2px đệm trong suốt để không "lem" sang khung bên cạnh.
@@ -51,6 +54,8 @@ def parse_tile_list(path):
     tiles = {}
     for line in Path(path).read_text(encoding='utf-8').splitlines():
         parts = line.split()
+        if not parts or parts[0].startswith('#'):
+            continue
         if len(parts) >= 5:
             name, x, y, w, h = parts[0], *map(int, parts[1:5])
             tiles[name] = (x, y, w, h)
@@ -79,9 +84,10 @@ def outline(img, color):
     return out
 
 
-def main(atlas_path, list_path):
+def main(atlas_path, list_path, extra_path=None, extra_list=None):
     tiles = parse_tile_list(list_path)
     sheet = Image.open(atlas_path).convert('RGBA')
+    src = {}   # tên khung -> ảnh nguồn (mặc định: gói 0x72)
 
     names = []
     for base, n, col in NEEDED:
@@ -92,6 +98,12 @@ def main(atlas_path, list_path):
             if name not in tiles:
                 sys.exit(f'Không tìm thấy khung: {name}')
             names.append((name, col))
+    if extra_path:
+        extra = Image.open(extra_path).convert('RGBA')
+        for name, rect in parse_tile_list(extra_list).items():
+            tiles[name] = rect
+            src[name] = extra
+            names.append((name, None))
 
     # xếp theo hàng (shelf packing), rộng tối đa 256px
     cells, x, y, row_h, max_w = [], 0, 0, 0, 256
@@ -111,7 +123,7 @@ def main(atlas_path, list_path):
     for name, col, cx, cy in cells:
         sx, sy, w, h = tiles[name]
         cell = Image.new('RGBA', (w + PAD * 2, h + PAD * 2), (0, 0, 0, 0))
-        cell.paste(sheet.crop((sx, sy, sx + w, sy + h)), (PAD, PAD))
+        cell.paste(src.get(name, sheet).crop((sx, sy, sx + w, sy + h)), (PAD, PAD))
         if col:
             # V5: KHÔNG vẽ viền vào atlas nữa (viền vẽ lúc chạy, xem CFG.outline trong js/data.js);
             # vẫn giữ lề trong suốt 1px để toạ độ khung và điểm neo trong SPRITES không đổi.
@@ -124,10 +136,11 @@ def main(atlas_path, list_path):
     atlas.save(ROOT / 'assets' / 'atlas.png', optimize=True)
     js = ("'use strict';\n// TỰ SINH bởi tools/build_atlas.py — không sửa tay.\n"
           "// Nguồn: 0x72 DungeonTileset II v1.7 (CC0), https://0x72.itch.io/dungeontileset-ii\n"
+          + ("// + Niji DungeonTileset II Extended v1.1 (CC0), https://nijikokun.itch.io/dungeontileset-ii-extended\n" if extra_path else "") +
           f"const ATLAS = {json.dumps({'src': 'assets/atlas.png', 'size': atlas.size, 'frames': frames}, separators=(',', ':'))};\n")
     (ROOT / 'js' / 'atlas.js').write_text(js, encoding='utf-8')
     print(f'atlas {atlas.size}, {len(frames)} khung')
 
 
 if __name__ == '__main__':
-    main(sys.argv[1], sys.argv[2])
+    main(*sys.argv[1:5])

diff --git a/KE_HOACH_V8.md b/KE_HOACH_V8.md
@@ -176,7 +176,7 @@ async function perf(n = 120) {
 - `propsOnCam(camX, camY, out): out` — trả danh sách `{x, y, h}` các ô trong tầm nhìn + lề `r`.
 - `PROP_DRAW[kind](c, x, y, t)` — hình vẽ bằng code nhỏ (≤ 16×20 đơn vị), như `DECOR`, có ngọn lửa 2–3 điểm ảnh đổi khung theo `t`.
 
-- [ ] **Bước 1: Viết `V8-3` (trượt trước):** (a) đi 2000 đơn vị theo một hướng, đếm số nguồn sáng thấy được ở mỗi 100 đơn vị: luôn ≥ 1 và ≤ 6; (b) cùng toạ độ gọi `propsOnCam` 2 lần ra cùng kết quả (cố định); (c) mọi `WAVE_DEFS[i].props.col` lệch sắc độ ≥ 35° so với `CFG.light.zoneCol`; (d) `light.n` khung có đèn thế giới vẫn ≤ `CFG.light.max`; (e) `calm()` đúng thì độ sáng đèn ở 2 thời điểm khác nhau bằng nhau (không lập loè).
+- [x] **Bước 1: Viết `V8-3` (trượt trước):** (a) đi 2000 đơn vị theo một hướng, đếm số nguồn sáng thấy được ở mỗi 100 đơn vị: luôn ≥ 1 và ≤ 6; (b) cùng toạ độ gọi `propsOnCam` 2 lần ra cùng kết quả (cố định); (c) mọi `WAVE_DEFS[i].props.col` lệch sắc độ ≥ 35° so với `CFG.light.zoneCol`; (d) `light.n` khung có đèn thế giới vẫn ≤ `CFG.light.max`; (e) `calm()` đúng thì độ sáng đèn ở 2 thời điểm khác nhau bằng nhau (không lập loè).
 
 ```js
 const hue = h => { const [r, g, b] = [1, 3, 5].map(i => parseInt(h.slice(i, i + 2), 16) / 255), M = Math.max(r, g, b), m = Math.min(r, g, b), d = M - m;
@@ -184,13 +184,15 @@ const hue = h => { const [r, g, b] = [1, 3, 5].map(i => parseInt(h.slice(i, i + 
 const hdist = (a, b) => { const d = Math.abs(hue(a) - hue(b)); return Math.min(d, 360 - d); };
 ```
 
-- [ ] **Bước 2:** Thêm cấu hình, `propsOnCam` (duyệt ô từ `floor((camX - r)/cell)` tới `floor((camX + VW + r)/cell)`, tương tự trục Y; vị trí trong ô = `cx*cell + h%(cell-60) + 30`).
-- [ ] **Bước 3:** Trong `drawLights`, gom đèn thế giới SAU vùng nổ và TRƯỚC tinh anh (ưu tiên: người chơi → boss → vùng nổ → đèn thế giới → tinh anh → đạn). Độ đậm = `1 + flick × (sin(t·flickHz + h) + sin(t·flickHz·1.7 + h·3)) / 2`; `calm()` thì = 1.
-- [ ] **Bước 4:** `drawProps` vẽ hình nguồn sáng ngay sau `drawDecals` (dưới quái, như đồ trang trí). Vẽ cả khi `!lightOn()` (vẫn là đồ trang trí), chỉ đèn là tắt.
-- [ ] **Bước 5:** `renderAttract` (menu) gọi `drawProps` + đèn với đợt 1 — kiểm không đụng `G.player`/`G.enemies` chưa có.
-- [ ] **Bước 6:** `runChecks()` → 76/76; V7-1 (độ tối góc màn 30–75%) vẫn đạt — nếu góc sáng quá vì có đèn, đặt người chơi ở toạ độ không có đèn trong phép thử V7-1, KHÔNG nới tiêu chí.
-- [ ] **Bước 7:** `perf()` ≤ +0,6 ms (mỗi khung chỉ thêm ~4–9 đèn và hình). Chụp 4 ảnh đợt.
-- [ ] **Bước 8:** VER `v8c`, commit `V8 G3: nguồn sáng cố định theo đợt (nến, lò tử linh, khe đất, đống than)`.
+- [x] **Bước 2:** Thêm cấu hình, `propsOnCam` (duyệt ô từ `floor((camX - r)/cell)` tới `floor((camX + VW + r)/cell)`, tương tự trục Y; vị trí trong ô = `cx*cell + h%(cell-60) + 30`).
+- [x] **Bước 3:** Trong `drawLights`, gom đèn thế giới SAU vùng nổ và TRƯỚC tinh anh (ưu tiên: người chơi → boss → vùng nổ → đèn thế giới → tinh anh → đạn). Độ đậm = `1 + flick × (sin(t·flickHz + h) + sin(t·flickHz·1.7 + h·3)) / 2`; `calm()` thì = 1.
+- [x] **Bước 4:** `drawProps` vẽ hình nguồn sáng ngay sau `drawDecals` (dưới quái, như đồ trang trí). Vẽ cả khi `!lightOn()` (vẫn là đồ trang trí), chỉ đèn là tắt.
+- [x] **Bước 5:** `renderAttract` (menu) gọi `drawProps` + đèn với đợt 1 — kiểm không đụng `G.player`/`G.enemies` chưa có.
+- [x] **Bước 6:** `runChecks()` → 76/76; V7-1 (độ tối góc màn 30–75%) vẫn đạt — nếu góc sáng quá vì có đèn, đặt người chơi ở toạ độ không có đèn trong phép thử V7-1, KHÔNG nới tiêu chí.
+- [x] **Bước 7:** `perf()` ≤ +0,6 ms (mỗi khung chỉ thêm ~4–9 đèn và hình). Chụp 4 ảnh đợt.
+- [x] **Bước 8:** VER `v8c`, commit `V8 G3: nguồn sáng cố định theo đợt (nến, lò tử linh, khe đất, đống than)`.
+
+**Kết quả G3** (22/11/2026, pane 1280×720 hiện, VER `v8h`; G3 làm sau cùng nên đếm 78 → 79): `runChecks()` 79/79. `V8-3` trước → sau: `không có propsOnCam` (trượt) → `đèn 2–6, cố định true, sắc độ ≥ 36.1°, tổng ≤ 7/80, lập loè 7, giảm loé 0, vô tận ok`. V7-1 vẫn đạt không cần dời người chơi (góc 0.56); V8-1 đạt 42% (nền 19.7 — có một đèn gần vòng đo nên nền sáng hơn 12 của trước). Lệch kế hoạch: (1) **asset thay hình code**: người dùng duyệt 2 gói CC0 — 24 khung của Niji "DungeonTileset II Extended" (`tools/niji_tiles.txt`, đo bằng Pillow): đợt 1 nến trên trụ đá `niji_candle_f0–7`, đợt 2 đuốc `niji_torch_f0–7` nhuộm tím (`SPRITES.propTorch.tint`), đợt 3–4 ngọn lửa `niji_flame_f0–7` trên đế vẽ code `PROP_BASE.vent` (khe đất) / `pyre` (đống than, lửa ×1.4); gói 0x72 gốc không cần khung mới (đài phun là mảnh tường, không hợp nền); thiếu ảnh thì `SHAPES.propCandle/propTorch/propFlame` (thay `PROP_DRAW`, dùng luôn đường lùi của `draw()`). `tools/build_atlas.py` nhận thêm 2 tham số (ảnh + danh sách khung gói thứ hai), khung mới xếp SAU khung cũ: 134 → 158 khung, atlas vẫn 256×512, 134 khung cũ trùng từng điểm ảnh và toạ độ (so với `tools/backup/atlas.v8g.png/.js`); `ATLAS_SRC` tag `g7` → `g8`. (2) **phân bố**: `chance` 0.45 / ô 380 không giữ được "luôn ≥ 1" (mô phỏng 20 000 vị trí: 18% khung không có đèn) → mỗi ô 400 có đúng 1 đèn ở giữa ô ± `jit` 60 (`CFG.props = { cell: 400, jit: 60, flick, flickHz, r, menuA }`, bỏ `chance`); mô phỏng: 1–6 đèn mỗi khung, trung bình ~3. (3) **màu**: nến `#ffcf7a` chỉ lệch 33.3° và khe `#ffc04a` 34.1° → `#ffd880` (36.5°), `#ffc850` (36.1°); lò `#b583ff`, than `#ffd060` giữ. (4) độ sáng đèn = 1 − flick·(1 − sóng), giảm loé đứng yên ở 1 − flick (thay "1 + flick·…" vì `globalAlpha` > 1 bị cắt); V8-3 đo lập loè bằng điểm ảnh lightmap lệch 0.6 bán kính khỏi tâm đèn (tâm bão hoà 255) và đi 2000 đơn vị ở cả 4 đợt. (5) menu không có lightmap nên đèn ở menu là quầng cộng sáng `menuA` 0.3 (chỉ khi `lightOn()`), không đụng `G`. Bỏ ảnh/sprite đèn → 7 đợt + menu vẽ bằng hình code không lỗi. `sw.js` mạng trước + URL ảnh có `?v=g8` nên không cần đổi kho `nfs-v1`. `perf()` cùng phiên, xen kẽ tắt/bật đèn (đợt 1): 1.5/1.4/1.3 → 1.3/1.3/1.3 ms (trung vị 1.4 → 1.3, không đổi). Ảnh `tools/shots/v8-after-wave1..4.png` chụp lại (cảnh Task 0): đèn là đồ trang trí nhỏ, vũng sáng ấm/tím nhạt, không giống vùng nổ đỏ.
 
 ---
 

diff --git a/CLAUDE.md b/CLAUDE.md
@@ -41,7 +41,7 @@ Người dùng nói tiếng Việt; trả lời, chú thích code và chữ tron
 - `tools/strip_outline.py` (`python -I tools/strip_outline.py`) — xoá viền vẽ sẵn khỏi `assets/atlas.png` (đã chạy; chạy lại không đổi gì). Bản atlas cũ có viền: `tools/backup/atlas.v4.png`. Thư mục này không dùng git: trước khi ghi đè file ảnh/âm thanh, chép bản cũ vào `tools/backup/`.
 - Viền sprite: chỉnh thử ngay trong console bằng `__vs.outline({ px: 2, inner: 0.7, outer: 0.25, enemy: '#fff' })`; giá trị mặc định ở `CFG.outline` (`js/data.js`).
 - `.claude/launch.json` có 2 cấu hình máy chủ: cổng 8765 và 8766 (dùng 8766 khi 8765 đang bận). `localStorage` tách theo cổng, nên tiến trình lưu ở cổng này không hiện ở cổng kia.
-- `tools/build_atlas.py <0x72 atlas.png> <tile_list>` (từ V5 không vẽ viền vào atlas nữa) và `tools/build_fx_atlas.py <PVFX zip>` — ghép lại atlas. Gói 0x72 đã tải lại ở `vendor/0x72/x/0x72_DungeonTilesetII_v1.7/` (lệnh đầy đủ ở đầu `build_atlas.py`); PVFX Foundry 1.0 chưa có. `vendor/` nằm trong `.gitignore`. Atlas trước Phase 10: `tools/backup/atlas.v5p9.png` + `atlas.v5p9.js` (các khung cũ giống hệt bản mới, chỉ khác giá trị màu ở điểm ảnh trong suốt của `bomb_f*`).
+- `tools/build_atlas.py <0x72 atlas.png> <tile_list> [<niji png> tools/niji_tiles.txt]` (từ V5 không vẽ viền vào atlas nữa; V8 G3 thêm 24 khung đèn của gói Niji CC0 ở `vendor/niji/` vào cuối atlas → 158 khung, tag `g8`, bản trước ở `tools/backup/atlas.v8g.*`) và `tools/build_fx_atlas.py <PVFX zip>` — ghép lại atlas. Gói 0x72 đã tải lại ở `vendor/0x72/x/0x72_DungeonTilesetII_v1.7/` (lệnh đầy đủ ở đầu `build_atlas.py`); PVFX Foundry 1.0 chưa có. `vendor/` nằm trong `.gitignore`. Atlas trước Phase 10: `tools/backup/atlas.v5p9.png` + `atlas.v5p9.js` (các khung cũ giống hệt bản mới, chỉ khác giá trị màu ở điểm ảnh trong suốt của `bomb_f*`).
 - Trong console trang game: `__vs.tick(giây)`, `__vs.give('nova', 8)`, `__vs.spawn(50,'golem')`, `__vs.spawnBoss('bossOgre')`, `__vs.pickItem('bomb')`, `__vs.skipTo(2)`, `__vs.evolve('knife')`, `__vs.spawnElite('golem')`, `__vs.reroll()`. Tiến trình lâu dài: `META` (xoá `localStorage.vs_meta` để về trắng), `buyMeta('hp')`, `continueEndless()` (sau khi thắng).
 - `tools/checks.js` → `await runChecks()`: 17 tiêu chí nghiệm thu GĐ0–6 + tiêu chí V4 (`V4-1`…) + V5 (`V5-3`…`V5-10`) + V6 (`V6-1`…`V6-10`) + V7 (`V7-1`…`V7-9`), hiện **73 tiêu chí** (V6-2/V6-3 cần pane hiển thị — trang "hidden" thì rAF dừng). `hitAudit(tên, gốc)` (nút ≥ 44 px, tới được, không bị che), `auditAll()` (mở lần lượt 10 bảng) và `mixProbe(giây)` cũng gọi tay được sau khi nạp file (bấm "Bắt đầu" trước để mở âm thanh). Tự sao lưu/trả lại tiến trình (`META`, localStorage).
 - Âm thanh: `vendor/audio/` (không có trong repo) chứa 4 gói âm gốc — muốn nghe thử/đổi âm thì tải lại (link trong `CREDITS.md`) và giải nén vào `vendor/audio/kenney-digital-audio`, `kenney-interface-sounds`, `kenney-music-jingles`, `oga512`. Gói Kenney tải qua link ký tạm thời (`https://kenney.nl/download-link/<hex của 'assets/tên-gói'>`). Máy chưa có ffmpeg.

diff --git a/CREDITS.md b/CREDITS.md
@@ -6,7 +6,7 @@
 - Trang gốc: https://0x72.itch.io/dungeontileset-ii
 - Giấy phép: **CC0** ("You can use this tileset for whatever you like (CC-0)" — trang gốc). Không bắt buộc ghi nguồn, ghi để cảm ơn tác giả.
 - File gốc: `vendor/0x72/0x72_DungeonTilesetII_v1.7.zip` (416 kB, tải ngày 2026-11-14; tải lại 2026-11-15 cho V5 Phase 10, giải nén ở `vendor/0x72/x/`)
-- Game dùng: `assets/atlas.png`, ghép bằng `tools/build_atlas.py` từ 134 khung của gói (V5 Phase 10 thêm 47 khung). Atlas không có viền; viền sáng quanh nhân vật/quái được game vẽ lúc chạy.
+- Game dùng: `assets/atlas.png`, ghép bằng `tools/build_atlas.py` từ 134 khung của gói (V5 Phase 10 thêm 47 khung) + 24 khung của gói Niji bên dưới (V8 G3) = 158 khung. Atlas không có viền; viền sáng quanh nhân vật/quái được game vẽ lúc chạy.
 
 | Trong game | Sprite gốc |
 |---|---|
@@ -29,6 +29,18 @@
 | Nhân vật Hiệp Sĩ / Tiên Rừng / Thằn Lằn Chiến (V5 Phase 10) | `knight_m_*` / `elf_f_*` / `lizard_m_*` |
 | Bình máu, khiên, thuốc gió, thuốc cuồng nộ, bom | `flask_big_red/blue/green/yellow`, `bomb_f0–2` |
 | Icon giao diện | `weapon_arrow`, `weapon_red_gem_sword`, `weapon_knife`, `weapon_big_hammer`, `weapon_golden_sword`, `flask_green`, `ui_heart_full`, `skull`… (các icon còn lại vẽ bằng code trong `js/icons.js`) |
+
+**DungeonTileset II Extended v1.1** — tác giả Niji (nijikokun), mở rộng gói của 0x72
+- Trang gốc: https://nijikokun.itch.io/dungeontileset-ii-extended
+- Giấy phép: **CC0** (như gói gốc của 0x72). Không bắt buộc ghi nguồn, ghi để cảm ơn tác giả.
+- File gốc: `dungeontileset-extended.png` (1024×1024, không có danh sách khung), giải nén ở `vendor/niji/dungeontiles-extended v1.1/` (người dùng duyệt ở V8 G3).
+- Game dùng: 24 khung (V8 G3), toạ độ đo bằng Pillow ghi ở `tools/niji_tiles.txt`, ghép thêm vào cuối `assets/atlas.png` bằng `tools/build_atlas.py` (khung 0x72 cũ giữ nguyên vị trí và điểm ảnh).
+
+| Trong game | Khung (đặt tên trong `tools/niji_tiles.txt`) |
+|---|---|
+| Đèn thế giới đợt 1: nến trên trụ đá | `niji_candle_f0–7` |
+| Đèn thế giới đợt 2: đuốc (game nhuộm tím) | `niji_torch_f0–7` |
+| Đèn thế giới đợt 3–4: ngọn lửa trên khe đất / đống than (đế vẽ bằng code) | `niji_flame_f0–7` |
 
 ## Font
 
